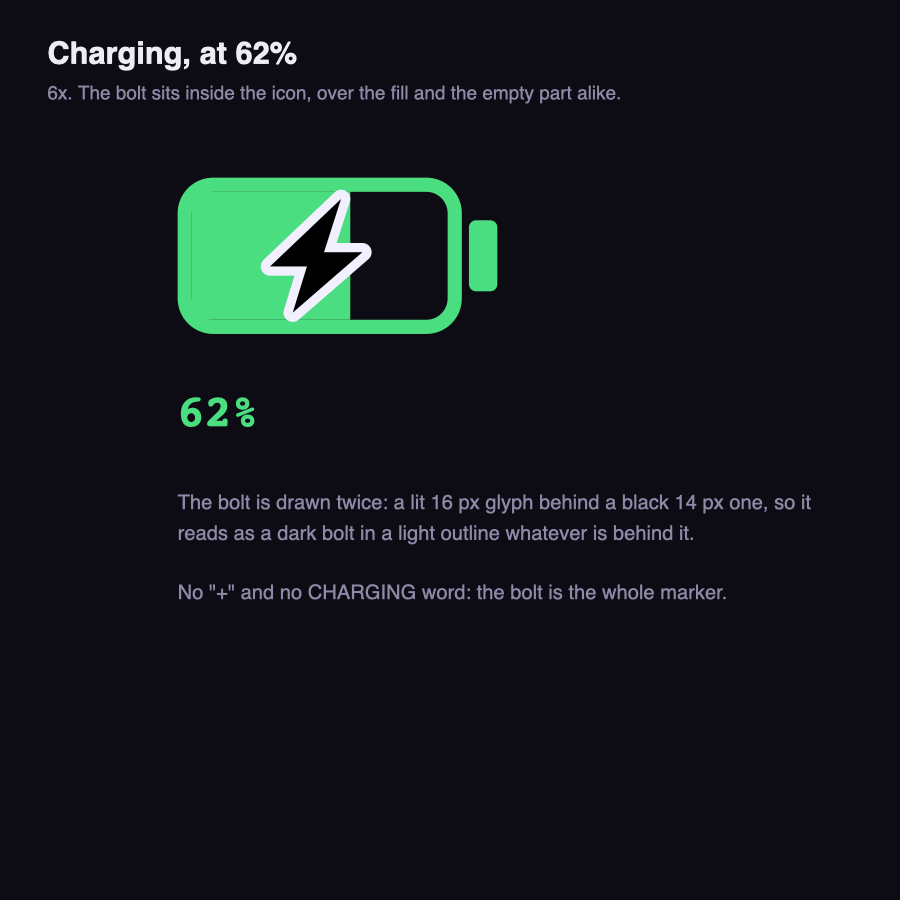
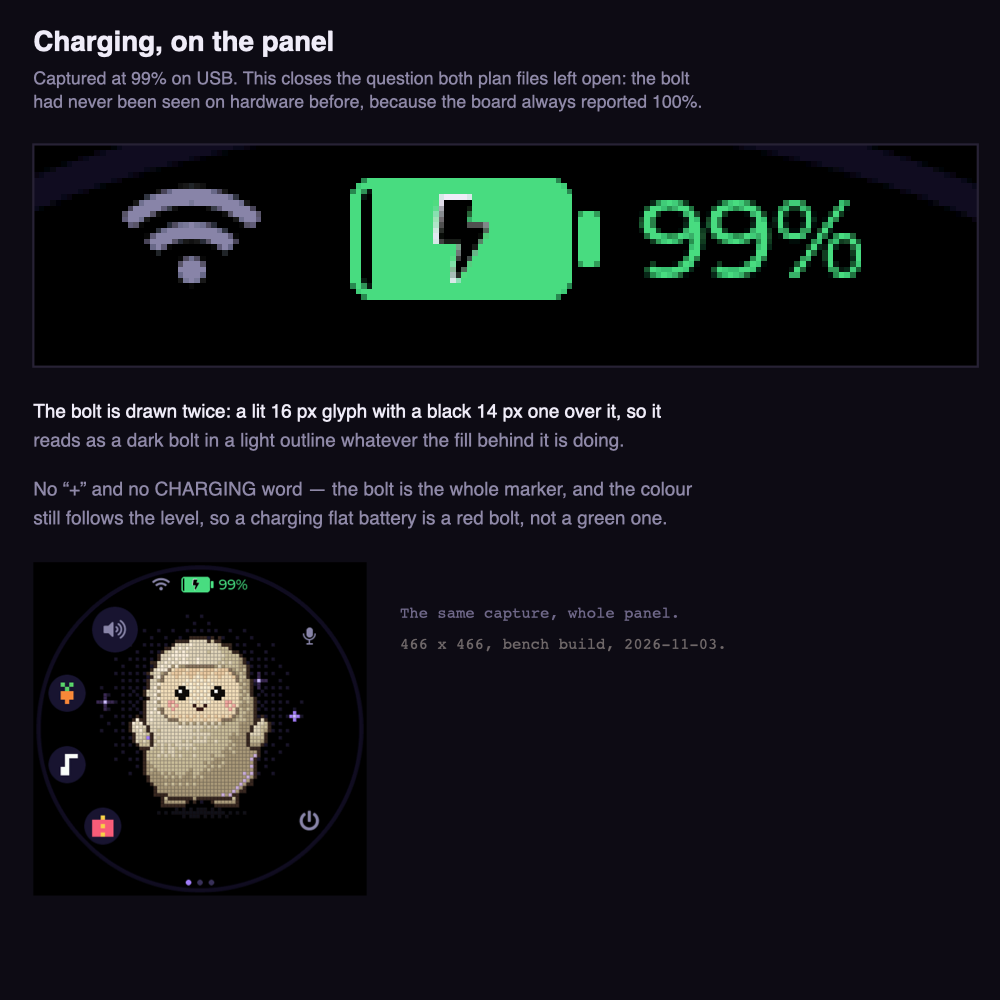
Flash the branch and replace the mockups with real captures
The board came back, so the widget has now run on the panel. The bench
build flashed clean and `>ui=0` captured the first page at 99% on USB.

What the capture settles:

- The terminal reads as part of the battery. The previous commit's
  spacing fix is correct on the panel, not just in the tree.
- The charging bolt works. Both plan files listed it as never seen,
  because the board reports 100% on USB and so never enters the
  charging state; at 99% it does, and the bolt rendered as designed.
  status-row.md's open question is struck through and answered.
- At 99% the fill stops one pixel short of the outline. That is the
  last percent, not a rounding bug.

battery-top.png and battery-charging.png are rebuilt from the capture
and are no longer mockups; battery-capture.png is the raw 466 px frame.
battery-states.png stays a mockup and says so — a bench board on USB
will not drop below 50% to order, so red and yellow are still unseen on
the panel.

diff --git a/plan/battery.md b/plan/battery.md
@@ -1,17 +1,17 @@
 # Battery icon on the first page
 
-**Status:** in progress
+**Status:** working, verified on hardware
 **Branch:** `feat/battery-top-icon`
 **Last updated:** 2026-11-03
 
-**Note on the images:** `battery-top.png`, `battery-charging.png` and
-`battery-states.png` are on the branch now, added from a local checkout
-— the GitHub MCP file tools cannot push binary PNGs (a test upload
-stored base64 text instead of PNG bytes and was removed again). All
-three are **mockups, not captures.** Nothing on this branch has run on
-the panel: the board was unplugged by the time the branch built, so the
-drawn widget has never been seen on hardware. The `battery-page1.png`
-the text used to point at does not exist and is no longer referenced.
+**Note on the images:** all four PNGs are on the branch, added from a
+local checkout — the GitHub MCP file tools cannot push binary PNGs (a
+test upload stored base64 text instead of PNG bytes and was removed
+again). `battery-top.png`, `battery-charging.png` and
+`battery-capture.png` are **real captures** of this branch running on
+the board. `battery-states.png` is still a mockup: the bands below 50%
+cannot be forced on a bench board. The `battery-page1.png` the text
+used to point at never existed and is no longer referenced.
 
 ## Rework on top of PR #6 — read this first
 
@@ -55,21 +55,22 @@ not implement either:
 
 ## What it looks like
 
-The mockup is the real first-page capture from PR #6
-(`assets/status-row-after.png`) with the top row composited over, shown
-beside the untouched capture. The `READY` line and the `BATTERY 100%`
-text went in #6; what changes here is the icon itself, from an
-`LV_SYMBOL` glyph to objects drawn at 40 x 22.
+Both panels below are real captures: PR #6's row on the left, this
+branch's on the right, with the row itself blown up to 4x underneath.
+The `READY` line and the `BATTERY 100%` text went in #6; what changes
+here is the icon itself, from an `LV_SYMBOL` glyph to objects drawn at
+40 x 22.
 
 ![Wi-Fi and battery icon in the top row](assets/battery-top.png)
 
 When charging, the battery keeps its percentage colour and gains a
 lightning bolt inside the icon, and the percentage still shows the
-current charge:
+current charge. Captured at 99% on USB:
 
 ![Charging battery, 62%](assets/battery-charging.png)
 
-The colour is the percentage, not a separate status:
+The colour is the percentage, not a separate status. This one is a
+mockup — a bench board on USB will not drop below 50% to order:
 
 ![Battery colour by percentage](assets/battery-states.png)
 
@@ -196,11 +197,23 @@ None on placement.
   icon from the previous version is not to be implemented, and its
   mockup was never committed.
 
-- **Not verified on hardware.** The branch builds clean (3,477,504
-  bytes, the same size as `main`) but has never been flashed: the board
-  was disconnected before the bench build finished. Flash it and replace
-  `assets/battery-top.png` with a real capture before trusting the
-  spacing.
+- **Verified on hardware 2026-11-03.** Flashed as a bench build
+  (3,477,504 bytes, the same size as `main`) and captured at
+  `assets/battery-capture.png`. The spacing reads correctly: the
+  terminal belongs to the battery, and at 99% the fill stops one pixel
+  short of the outline, which is the last percent rather than a
+  rounding bug.
+
+- **The charging bolt is confirmed.** Both this plan and
+  [status-row.md](status-row.md) listed it as never seen, because the
+  board reports 100% on USB and so never enters the charging state. It
+  was at 99% when this capture was taken, and the bolt rendered as
+  designed — a dark bolt in a light outline over a green fill.
+
+- **The bands under 50% are still unseen.** Red and yellow have never
+  rendered on the panel; a bench board on USB stays near full. The
+  colour maths is three comparisons, but the contrast against the black
+  panel has not been judged by eye.
 
 ## References
 
@@ -211,9 +224,11 @@ None on placement.
   rule)
 - `esp32/components/muse/muse_state.h` — `muse_power_t`,
   `muse_state_power()`
-- `plan/assets/status-row-after.png` — the real capture the mockup is
-  drawn over, from PR #6
-- `plan/assets/battery-top.png` — mockup: shipped row beside this one
-- `plan/assets/battery-charging.png` — mockup: the charging bolt
+- `plan/assets/status-row-after.png` — PR #6's row, the "before"
+- `plan/assets/battery-capture.png` — the raw 466 px capture of this
+  branch on the board, 2026-11-03
+- `plan/assets/battery-top.png` — both captures side by side, row at 4x
+- `plan/assets/battery-charging.png` — the charging bolt, from the same
+  capture
 - `plan/assets/battery-states.png` — mockup: the three colour bands
 - [status-row.md](status-row.md) — PR #6, which this reworks

diff --git a/plan/status-row.md b/plan/status-row.md
@@ -70,8 +70,12 @@ Wi-Fi is up, the 20 px icons, and why the row had to leave `unscii_8`.
 
 ## Open questions
 
-- The charging bolt has not been seen on the panel. The board reports 100 %
-  on USB, so it never entered the charging state during testing.
+- ~~The charging bolt has not been seen on the panel.~~ **Answered
+  2026-11-03** on the `feat/battery-top-icon` branch: the board sat at
+  99 % during one capture and the bolt rendered — see
+  [battery.md](battery.md) and `assets/battery-charging.png`. That is
+  the drawn widget, not this branch's `LV_SYMBOL_CHARGE`, but it
+  settles that the charging state is reachable on USB at all.
 - Whether the freed row should stay empty or take something else. It is empty
   now, which makes the face sit alone under the icons.
 
